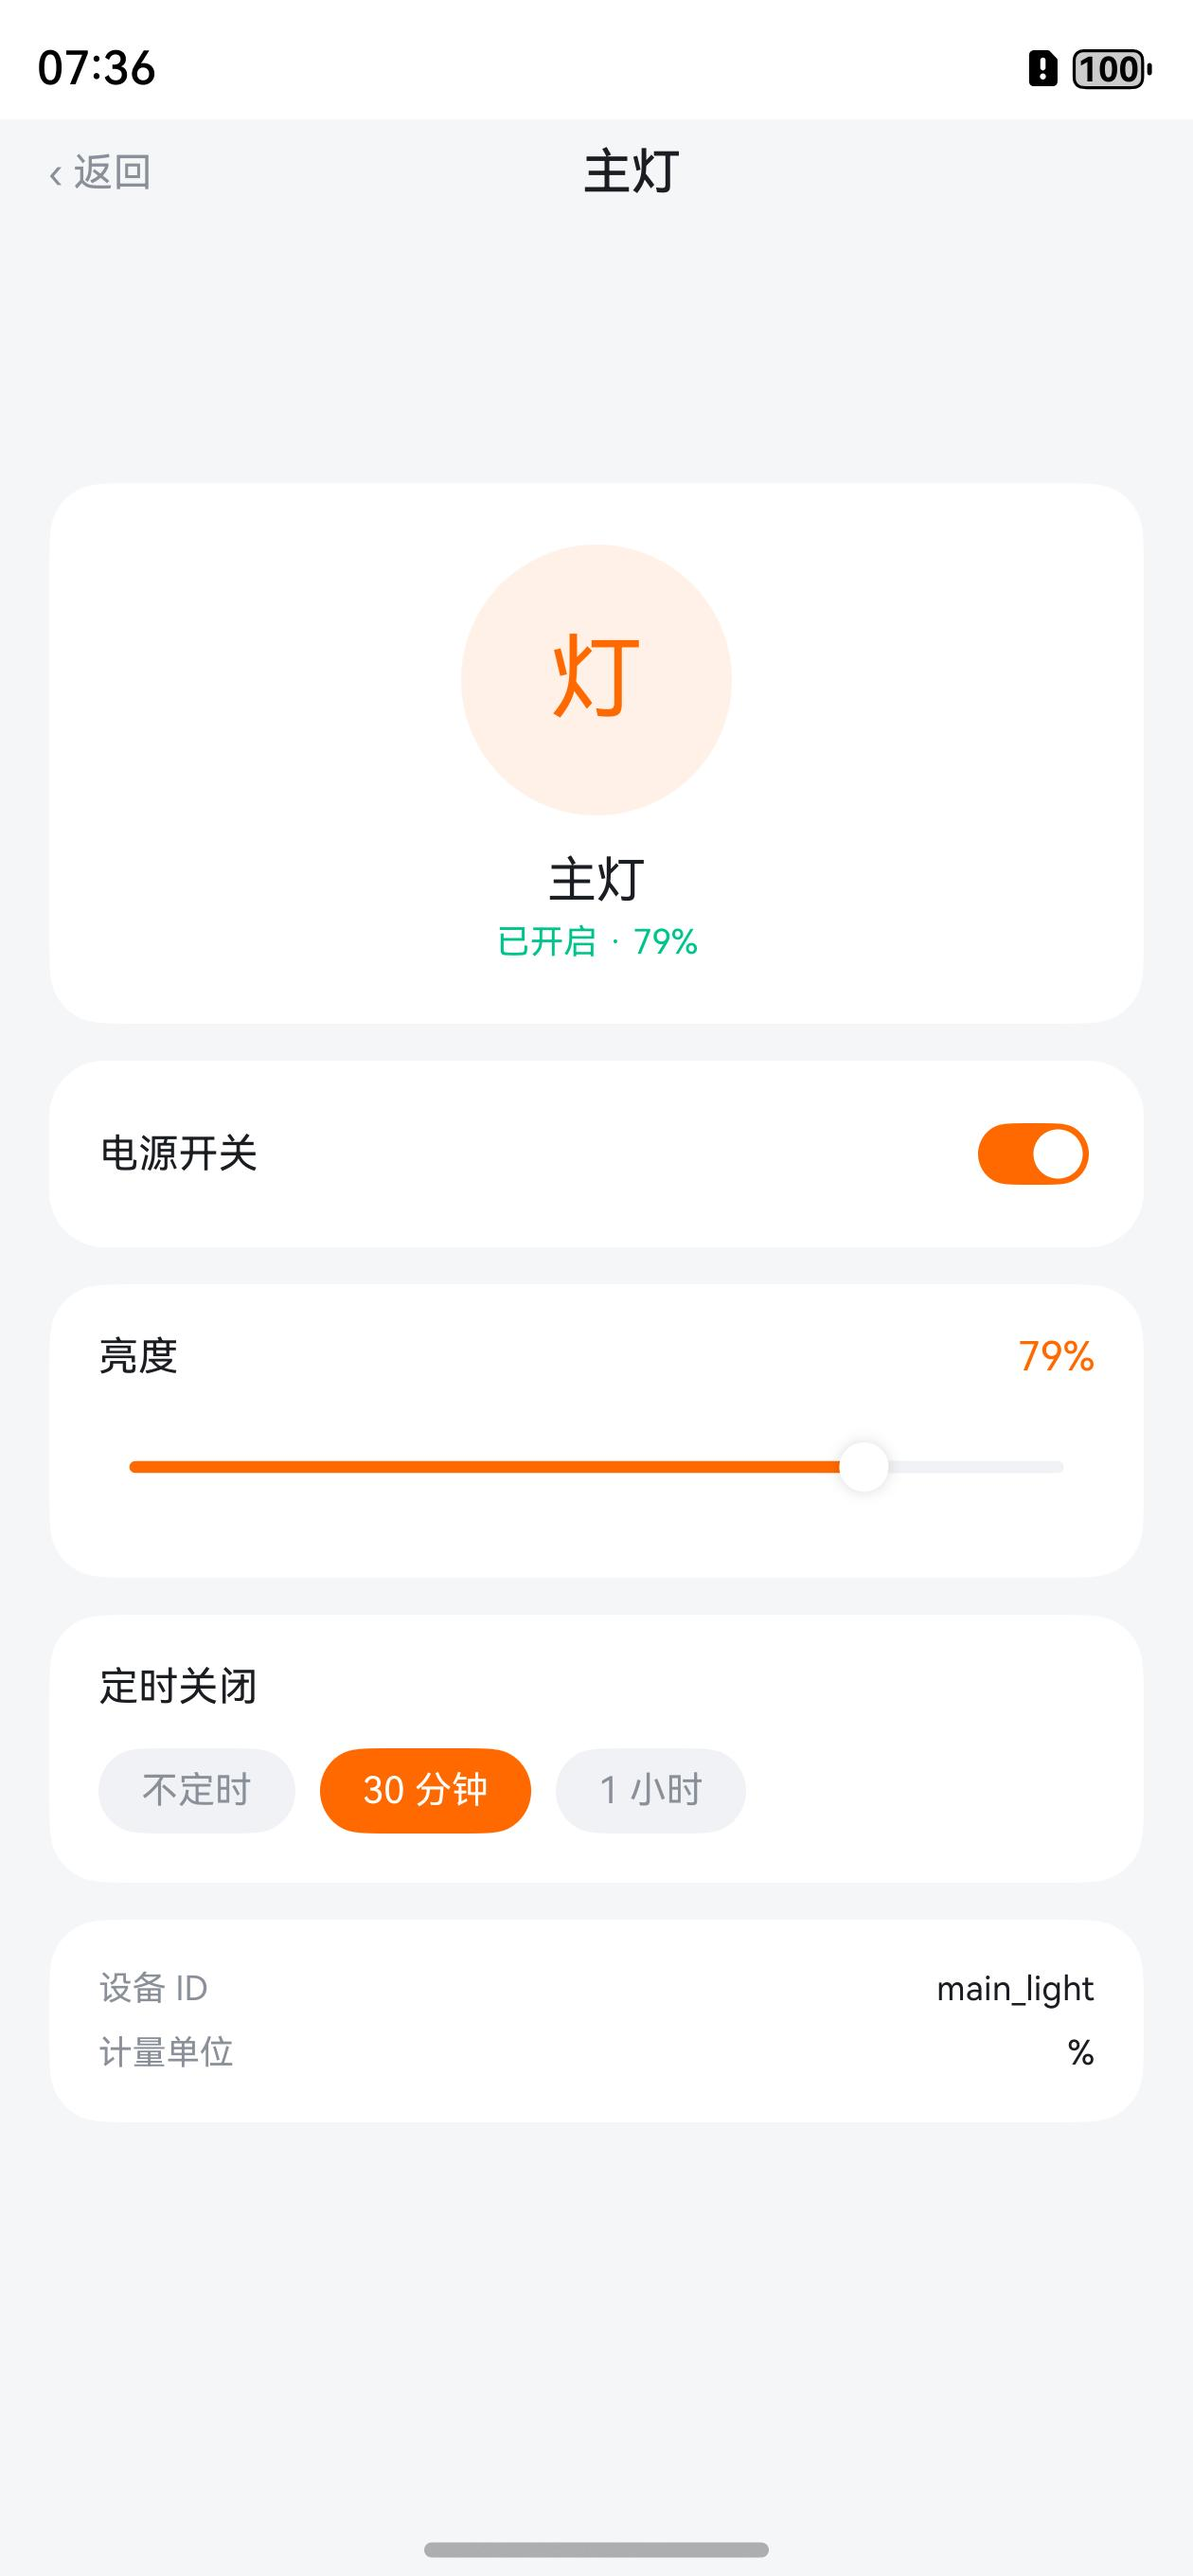
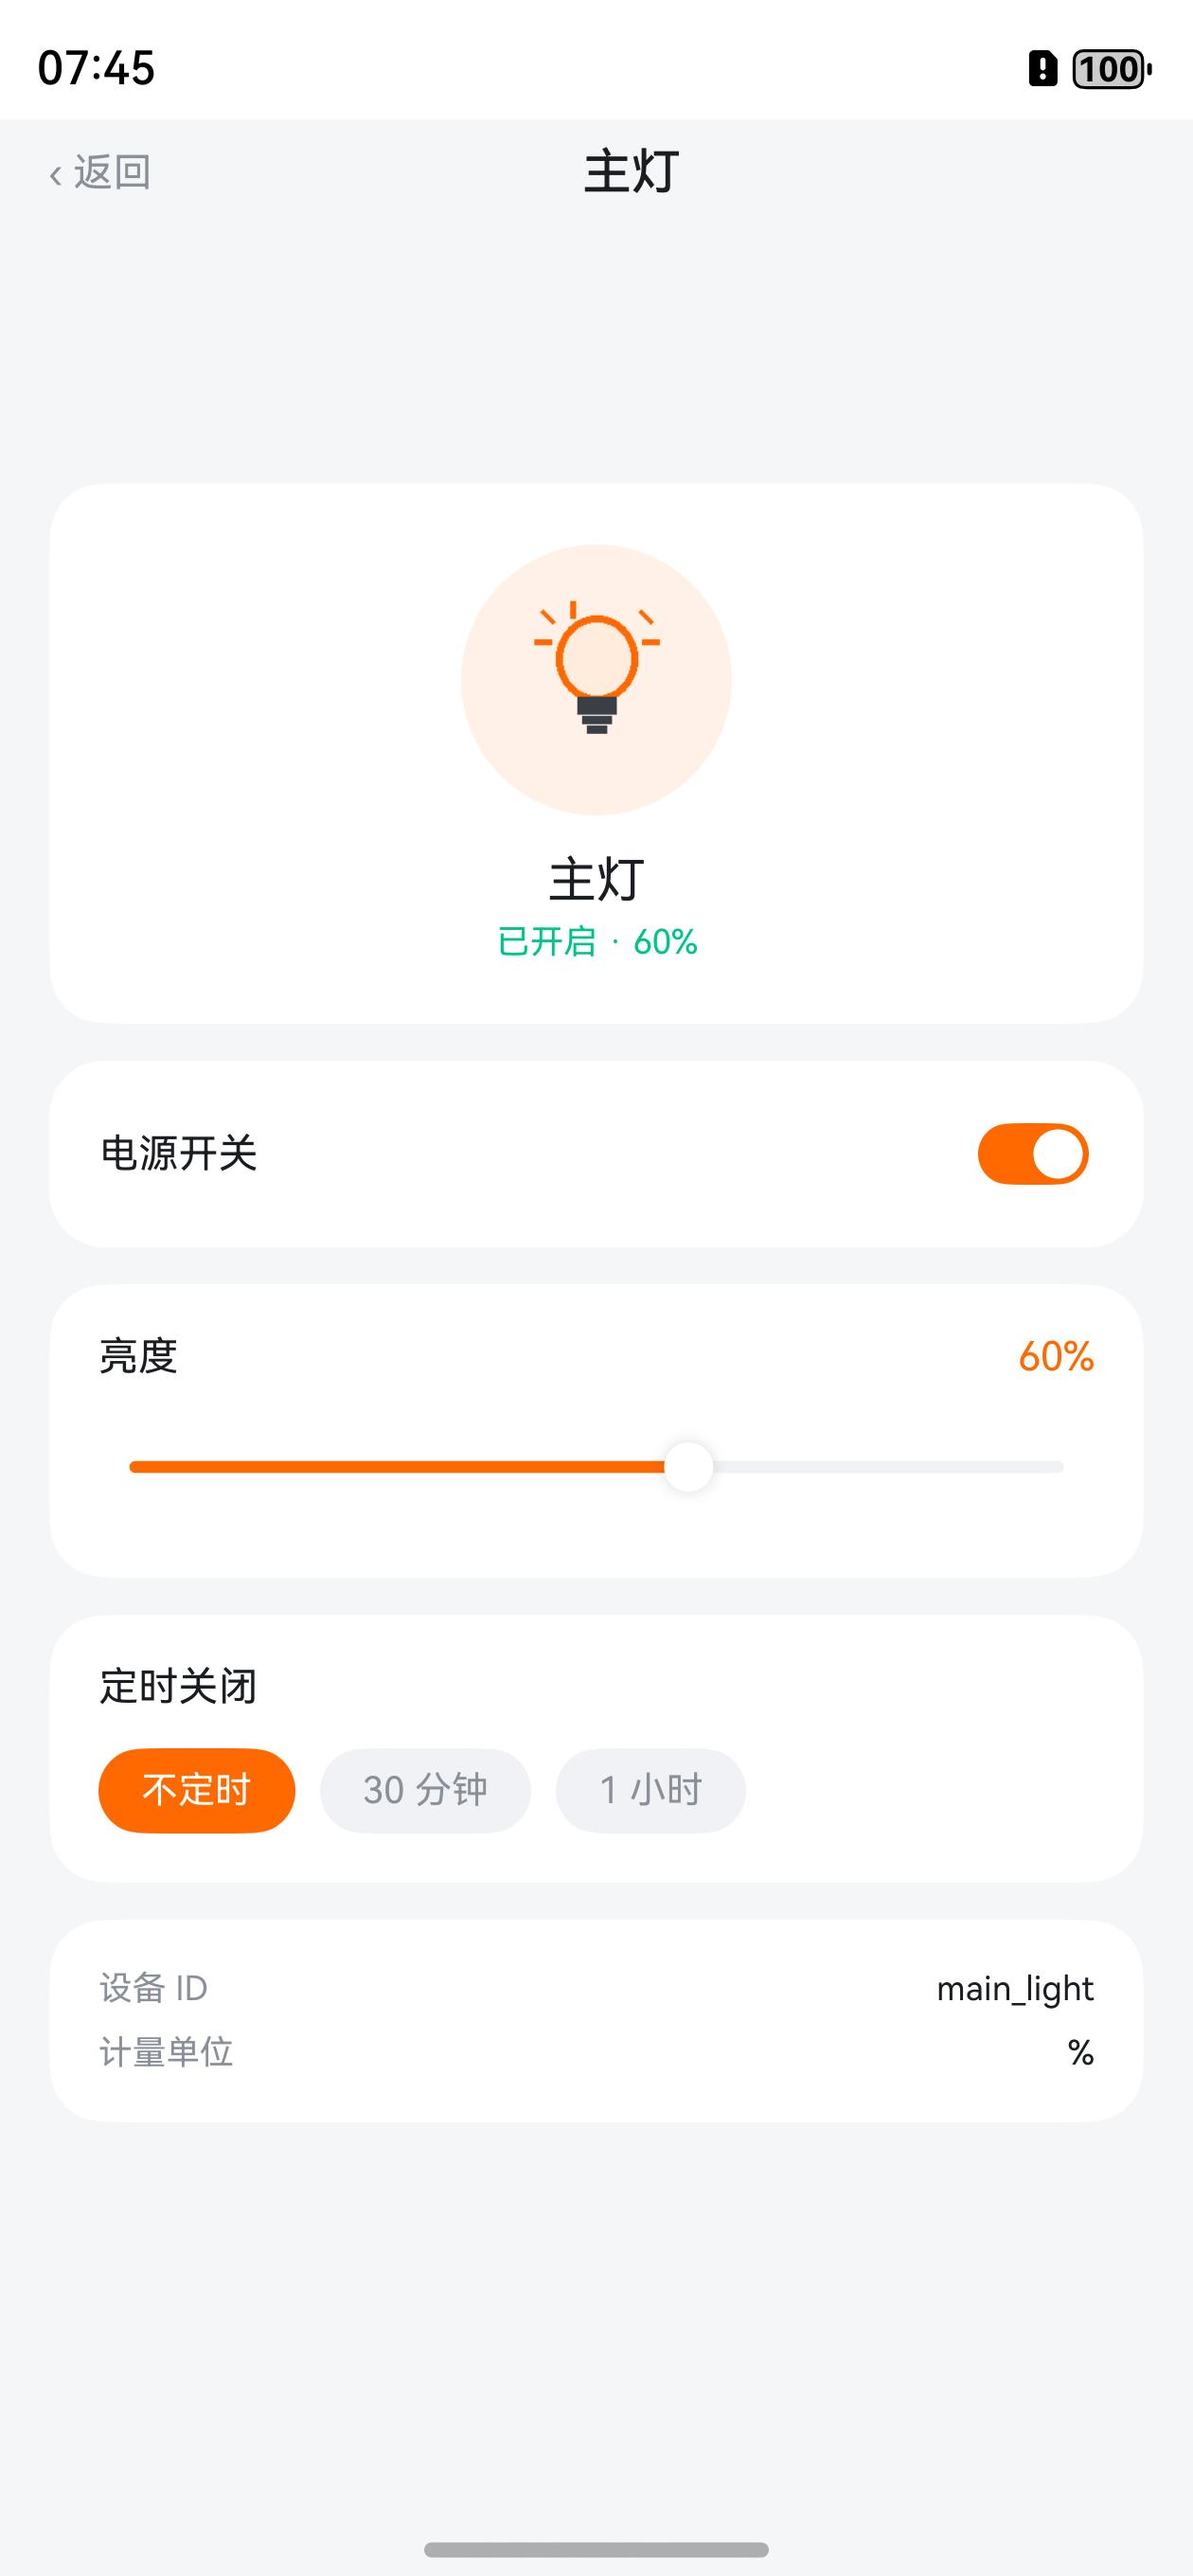
feat: 设备图标改为实物图形，移除设备分组 Tab

diff --git a/tools/fill_report_template.py b/tools/fill_report_template.py
@@ -136,7 +136,7 @@ HINTS = [
     """开发中遇到的代表性问题是「优先级形同虚设」。最初的实现按优先级升序执行命中的规则，但对同一设备直接后写覆盖：在 S2 场景里 R002(p20) 先把空调打开，随后 R005(p50) 又把空调关闭，最终状态恰好与「高优先级胜出」相反，而且界面上看不出发生过争用。定位方式是打印执行序列与设备终态，发现执行阶段缺少「该设备本轮是否已被更高优先级规则处理过」的记忆。修复分三步：① 引入 Map<DeviceId, string> 记录每个设备通道的占用者，只有通道空闲才允许写入设备状态；② 对已被占用的动作不再写设备，改为生成 ConflictRecord 与 blocked=true 的 ExecutionRecord，保留触发条件快照与当前状态快照；③ 用 continue 而非 break，保证同一规则对其他设备的动作继续执行。修复后补充了三条测试，分别验证胜出者正确、拦截粒度只作用于争用设备、以及给 R002 补充「在室=有人」条件后冲突归零；同时在演练页做了可视化提示与「一键修复」按钮，把这条排查路径变成用户可复现的功能。""",
 
     # 13 运行效果
-    """一条完整的用户操作流程如下：冷启动进入联动台，提示「未检测到有效存档，已加载默认方案」，6 条规则与 5 台全部关闭的设备就绪。先到规则页确认 6 条规则的触发条件（R001 显示「时段≥22 且 在室=有人」的双条件），再回联动台逐条验证：温度调到 31℃ 执行，R002 触发、空调开至 26℃；光照调到 900 lux 执行，R003 触发、窗帘关闭；湿度降到 30% 执行，R004 触发、加湿器开二档；时段调到 23 点执行，双条件规则 R001 触发、主灯开 60%；在规则页启用默认停用的 R006 后把时段改到 8 点执行，R006 触发并与 R003 争夺窗帘通道，优先级更高的 R006 胜出、R003 的窗帘动作被拦截；最后把在室状态切为无人执行，R005 触发并与 R002、R003、R006 三方争用，界面显示「触发 4 条 / 执行 4 个 / 拦截 3 个」。每次执行后都滚动到设备区核对主灯、空调、窗帘、风扇、加湿器的实时状态，确认动作确实落到设备上，而不是只改了一个计数。设备区提供「全部 / 照明 / 温控」三个分组 Tab（带实时数量），可快速聚焦某一类设备。点击任一设备卡可进入米家式的设备详情页，直接控制电源开关、调节亮度/温度/开合度/档位，并可设置 30 分钟或 1 小时后自动关闭；返回首页后设备卡与「设备在线」数立即同步。异常方面，在规则编辑器里把触发条件全部删除后保存，顶部立即提示「规则不合法：规则缺少触发条件」，编辑器保持打开、不写入存档。随后到演练页载入 S2 预设场景复现同一冲突，点「一键修复」为 R002 补充「在室=有人」条件后冲突归零；在日志页按序号核对每条动作的优先级、条件快照与设备变化前后值；最后点「生成测试报告」，应用在本进程内真实执行 12 条规则引擎断言并渲染结果（通过 12 / 失败 0，正常 5 / 边界 3 / 异常 4）。强制结束进程再重新打开，顶部显示「已恢复存档」并提示恢复了执行记录。上述流程的实际运行截图见图 6.1，完整操作录屏见 screenshots/demo-recording.mp4。""",
+    """一条完整的用户操作流程如下：冷启动进入联动台，提示「未检测到有效存档，已加载默认方案」，6 条规则与 5 台全部关闭的设备就绪。先到规则页确认 6 条规则的触发条件（R001 显示「时段≥22 且 在室=有人」的双条件），再回联动台逐条验证：温度调到 31℃ 执行，R002 触发、空调开至 26℃；光照调到 900 lux 执行，R003 触发、窗帘关闭；湿度降到 30% 执行，R004 触发、加湿器开二档；时段调到 23 点执行，双条件规则 R001 触发、主灯开 60%；在规则页启用默认停用的 R006 后把时段改到 8 点执行，R006 触发并与 R003 争夺窗帘通道，优先级更高的 R006 胜出、R003 的窗帘动作被拦截；最后把在室状态切为无人执行，R005 触发并与 R002、R003、R006 三方争用，界面显示「触发 4 条 / 执行 4 个 / 拦截 3 个」。每次执行后都滚动到设备区核对主灯、空调、窗帘、风扇、加湿器的实时状态，确认动作确实落到设备上，而不是只改了一个计数。点击任一设备卡可进入米家式的设备详情页，直接控制电源开关、调节亮度/温度/开合度/档位，并可设置 30 分钟或 1 小时后自动关闭；返回首页后设备卡与「设备在线」数立即同步。异常方面，在规则编辑器里把触发条件全部删除后保存，顶部立即提示「规则不合法：规则缺少触发条件」，编辑器保持打开、不写入存档。随后到演练页载入 S2 预设场景复现同一冲突，点「一键修复」为 R002 补充「在室=有人」条件后冲突归零；在日志页按序号核对每条动作的优先级、条件快照与设备变化前后值；最后点「生成测试报告」，应用在本进程内真实执行 12 条规则引擎断言并渲染结果（通过 12 / 失败 0，正常 5 / 边界 3 / 异常 4）。强制结束进程再重新打开，顶部显示「已恢复存档」并提示恢复了执行记录。上述流程的实际运行截图见图 6.1，完整操作录屏见 screenshots/demo-recording.mp4。""",
 
     # 14 数据恢复与集成
     """以「用户新增的规则」这一代表性数据为例：在规则编辑器保存时，Index.saveDraft() 更新 @State rules，随后 runOnce() 触发 DormStore.persist()；DormStore 把 environment、devices、rules、最近 50 条 records 与 conflicts 组装成 PersistedState，serializeState 生成 JSON 字符串，StorageService.save() 执行 put 与 flush 后立即落盘。结束应用进程后重新打开，Index.aboutToAppear() 调用 DormStore.restore()：先 getPreferences，再 load 取出字符串，deserializeState 还原对象，校验 devices 与 rules（逐条 validateRule），通过后 applySnapshot 回填全部 @State。若存储初始化失败、无存档或 JSON 损坏，则安全回退默认方案并在界面显示具体原因，不会出现白屏或崩溃。集成验证方面，Node 侧异常用例断言存档字符串可 round-trip 且损坏 JSON 返回 null，边界用例断言 4 组场景重复执行终态一致，DevEco 侧 ohosTest 覆盖同一逻辑。结束进程并重新打开后的界面见图 6.2：顶部显示「已恢复存档」，并提示已从 Preferences 恢复规则、设备状态与最近 4 条执行记录，环境量与设备状态与关闭前完全一致。""",

diff --git a/docs/设计规范.md b/docs/设计规范.md
@@ -151,7 +151,8 @@
 
 - 两列网格（`Flex` wrap，单卡宽 48%），卡间距 `md`。
 - 卡内结构：左侧圆形图标底（44px，开启 `accentSubtle` 底 + `brand` 字，关闭 `surfaceAlt` 底 + `textTertiary` 字）→ 右上「开/关」徽章（开启 `success` 底白字，关闭 `surfaceAlt` 底灰字）→ 设备名 `title` → 状态 `caption`（开启 `success` 色）→ 开启时底部 3px 橙色进度条。
-- 图标用**中文单字**（灯/冷/帘/风/湿），不用彩色 emoji，保证风格统一。
+- 图标用**实物图形**（`dev_light` / `dev_ac` / `dev_curtain` / `dev_fan` / `dev_humidifier` 五张 PNG，统一深灰线条 + 橙色点缀），关闭态整体 `opacity(0.45)` 变淡。
+- 图标资源位于 `entry/src/main/resources/base/media/`，由 `tools/gen_device_icons.py` 生成，改配色只需改该脚本重跑。
 
 ### 6.2.2 顶部栏（米家式）
 
@@ -167,19 +168,12 @@
 - 卡内：40px 圆形图标底（`accentSubtle` 底 + `brand` 中文字：月/日/晨/夜）→ 场景名（`label`）→ 「S1 · 23 点」（`caption` 灰）。
 - 点击直接载入该场景并演练，与演练页的完整场景卡复用同一份 `SCENE_PRESETS`。
 
-### 6.2.3.1 设备分组 Tab（米家式房间切换）
-
-- 位置：设备区标题下方，一行 pill Tab。
-- 分组：`全部`（5）/ `照明`（主灯、窗帘）/ `温控`（空调、风扇、加湿器），Tab 文字带实时数量。
-- 选中态 `brand` 底 + `textInverse` 字，未选中 `surfaceAlt` 底 + `textSecondary` 字，圆角 pill，内边距 14/7。
-- 切换只过滤展示，不改变设备数据；分组内设备仍为两列网格。
-
 ### 6.2.4 设备详情页（米家式全屏控制）
 
 - 进入方式：点击首页设备卡；全屏覆盖，底部无 TabBar。
 - 结构（自上而下，卡片间距 `md`）：
   1. 顶部导航：左「‹ 返回」（`textSecondary`）、中设备名（`title`）、右侧留白占位保证标题居中。
-  2. 设备主卡：88px 圆形图标（开启 `accentSubtle` 底 + `brand` 字）→ 设备名 `title` → 状态 `caption`（开启 `success` 色）。
+  2. 设备主卡：88px 圆形图标底（开启 `accentSubtle`，内嵌 56px 实物图标；关闭 `surfaceAlt` + 图标 45% 透明度）→ 设备名 `title` → 状态 `caption`（开启 `success` 色）。
   3. 电源开关卡：左「电源开关」，右 `Toggle`（`selectedColor: brand`）。
   4. 参数卡：左参数名（空调=目标温度、窗帘=开合度、主灯=亮度、其余=档位），右数值 `brand` 色，下方 `Slider`（`selectedColor: brand`）。取值范围：空调 16–30℃、窗帘/主灯 0–100、风扇/加湿器 0–3 档。
   5. 定时卡：「不定时 / 30 分钟 / 1 小时」三个 pill，选中 `brand` 底白字，未选 `surfaceAlt` 底灰字。
